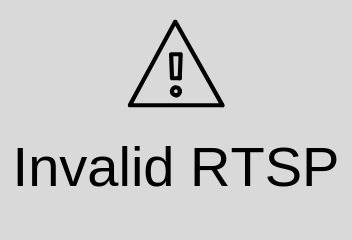
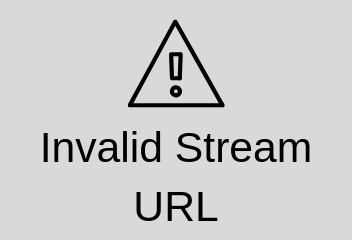
region selection working

Changed region(s): [[0.0312, 0.525, 0.9688, 0.9333]]

diff --git a/templates/add.html b/templates/add.html
@@ -117,14 +117,28 @@
             dataType: "json",
             success: function(response) {
                 console.log(response);
-                canvas.setAttribute('data-imgsrc', response.image_path);
-                canvas.width = canvas.width;
-                var context = canvas.getContext("2d");
-                var img = new Image();
-                img.src = response.image_path;
-                img.onload = function() {
-                    context.drawImage(img, 0, 0);
-                };
+                if (response.success){
+                    var image = new Image(response);
+                    canvas.setAttribute('data-imgsrc', response.path);
+                    canvas.width = canvas.width;
+                    var context = canvas.getContext("2d");
+                    var img = new Image();
+                    img.src = response.path;
+                    img.onload = function() {
+                        context.drawImage(img, 0, 0);
+                    };
+                }
+                else{
+                    var image = new Image(response);
+                    canvas.setAttribute('data-imgsrc', response.path);
+                    canvas.width = canvas.width;
+                    var context = canvas.getContext("2d");
+                    var img = new Image();
+                    img.src = response.path;
+                    img.onload = function() {
+                        context.drawImage(img, 0, 0);
+                    };
+                }
             },
             error: function(err) {
                 console.log(err);
@@ -339,7 +353,7 @@
                                                         <div class="modal-body">
                                                             <div style="float:left">
 <!--                                                                <canvas id="jPolygon" width="640" height="480" style="cursor:crosshair" data-imgsrc="/static/img/image.jpg" onmousedown="point_it(event)" oncontextmenu="return false;">-->
-                                                                <canvas id="jPolygon" name="jPolygon" width="352" height="240" style="cursor:crosshair" data-imgsrc="/static/img/image.jpg" onmousedown="point_it(event)" oncontextmenu="return false;">
+                                                                <canvas id="jPolygon" name="jPolygon" width="352" height="240" style="cursor:crosshair" data-imgsrc="/static/img/invalid_rtsp.jpg" onmousedown="point_it(event)" oncontextmenu="return false;">
 <!--                                                                <canvas id="jPolygon" width="640" height="480" style="cursor:crosshair" onmousedown="point_it(event)" oncontextmenu="return false;">-->
                                                                     Your browser does not support the HTML5 canvas tag.
                                                                 </canvas>

diff --git a/app.py b/app.py
@@ -3,6 +3,7 @@ import re
 import json
 import logging
 import requests
+import time
 import ConfigParser
 from functools import wraps
 from operator import itemgetter
@@ -399,18 +400,31 @@ def send_alarm_file():
     return send_file('alarm.mp3')
 
 
-@app.route('/updateFrame', methods=['POST'])
+@app.route('/updateFrame', methods=['POST', 'GET'])
 def update_frame():
     """Takes post request from add/edit page with rtsp link and updates the camera frame image"""
     data = request.get_json()
     rtsp = data['rtsp']
     if rtsp == "":
         # Update with a placeholder image
-        return_response = {'image_path': '/static/img/invalid_rtsp.jpg'}
-        pass
+        return_response = {'success': False, 'path': '/static/img/invalid_rtsp.jpg'}
+
     else:
         # Update with frame from camera rtsp link (if can't get frame, update with placeholder)
-        return_response = {'image_path': '/static/img/tmp_frame.jpg'}
+        response = requests.get(BACKEND_URL + 'getFrameFromRTSP/' + "rtsp=" + rtsp)
+        frame = response.content
+        if frame is not None:
+            temp_dir = 'static/img/temp'
+            filelist = [f for f in os.listdir(temp_dir) if f.endswith(".jpg")]
+            for f in filelist:
+                os.remove(os.path.join(temp_dir, f))
+            unique_filename = 'static/img/temp/%d.jpg' % int(time.time())  # workaround for the browser caching older images
+            fh = open(unique_filename, "w")
+            fh.write(frame)
+            fh.close()
+            return_response = {'success': True, 'path': unique_filename}
+        else:
+            return_response = {'success': False, 'path': '/static/img/invalid_rtsp.jpg'}
     return json.dumps(return_response)
 
 
@@ -587,13 +601,13 @@ def internal_server_error(e):
     return render_template('home.html', image="Landing.jpeg",
         alert_message='Internal server error occured, please contact Customer Support'), 500
 
-@app.errorhandler(Exception)
-def unhandled_exception(e):
-    '''Unhandled exception'''
-    logger.error('[Client %s] [520 Unhandled Exception] %s: %s' %
-        (request.remote_addr, e.__class__.__name__, e))
-    return render_template('home.html', image="Landing.jpeg",
-        alert_message='Unhandled exception occurred, please contact Customer Support'), 520
+# @app.errorhandler(Exception)
+# def unhandled_exception(e):
+#     '''Unhandled exception'''
+#     logger.error('[Client %s] [520 Unhandled Exception] %s: %s' %
+#         (request.remote_addr, e.__class__.__name__, e))
+#     return render_template('home.html', image="Landing.jpeg",
+#         alert_message='Unhandled exception occurred, please contact Customer Support'), 520
 
 if __name__ == "__main__":
     # Run flask app
